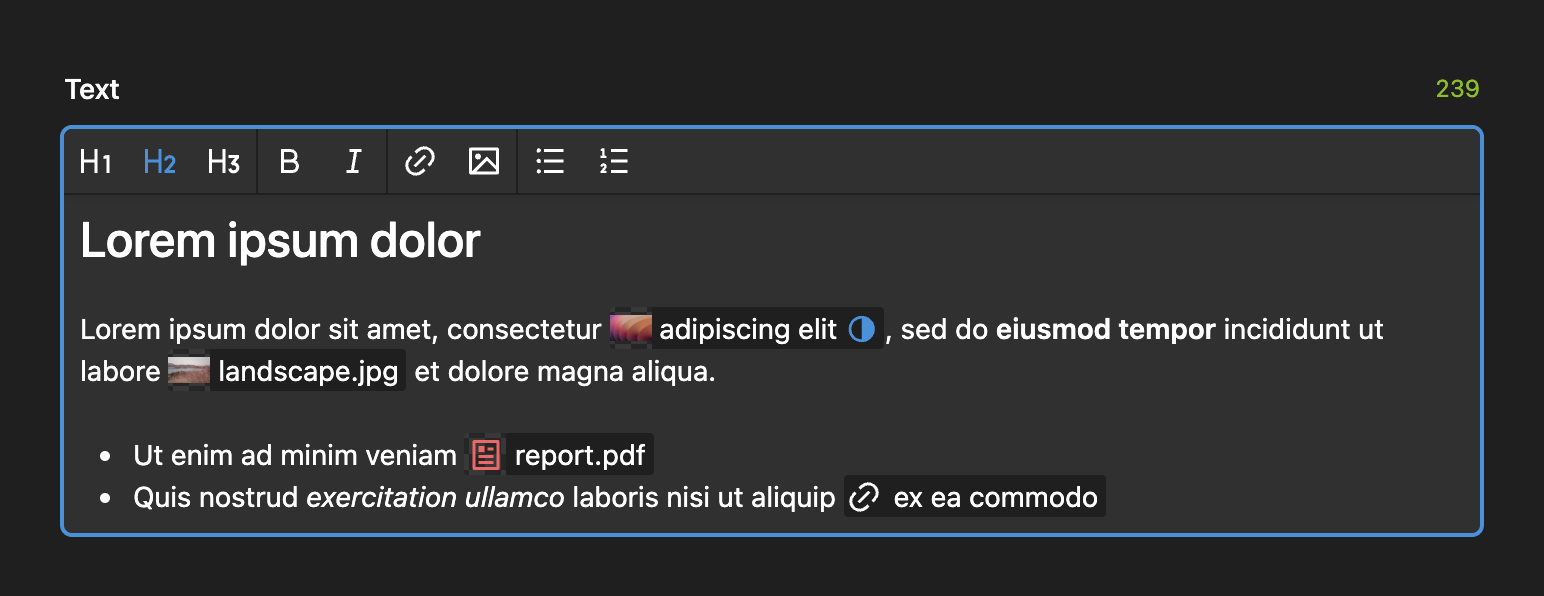
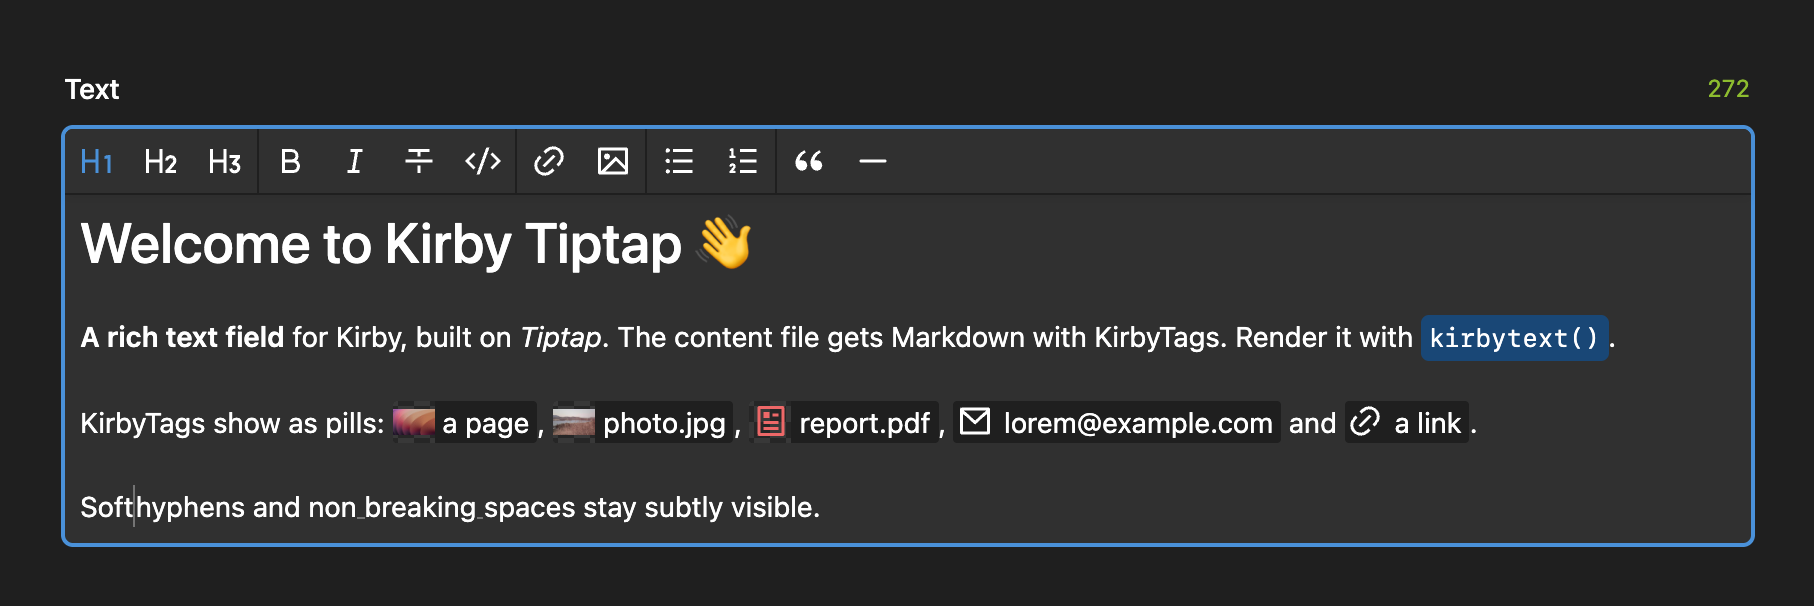
Replace the README hero screenshot

Changed region(s): [[0.0311, 0.1208, 0.9637, 0.906]]

diff --git a/README.md b/README.md
@@ -2,7 +2,7 @@
 
 A rich text field for [Kirby](https://getkirby.com), built on [Tiptap](https://tiptap.dev). Editors write with formatting, links, images and files in one place. The content file gets Markdown with KirbyTags, like a textarea field.
 
-<img src=".github/panel-overview.png" width="772" alt="A Tiptap field with a heading, bold and italic text, a list and KirbyTags shown as pills for a page link, an image, a PDF and an external link.">
+<img src=".github/panel-overview.png" width="772" alt="A focused Tiptap field with a heading, bold and italic text, inline code, KirbyTags shown as pills for a page, an image, a PDF, an email address and a link, and a visible soft hyphen and non-breaking spaces.">
 
 ## Installation
 
